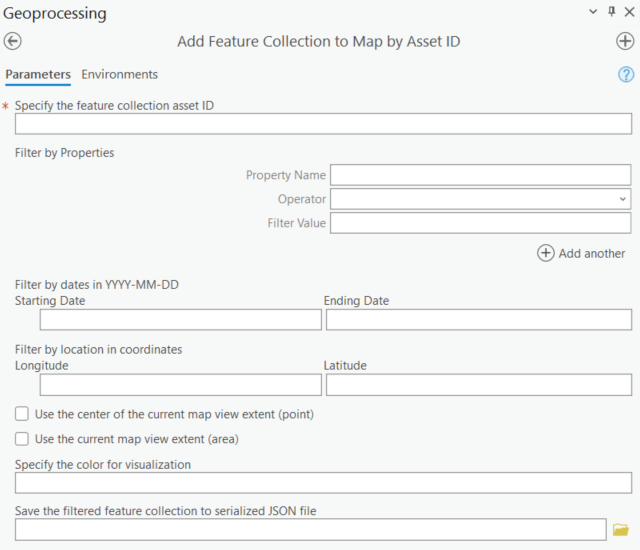
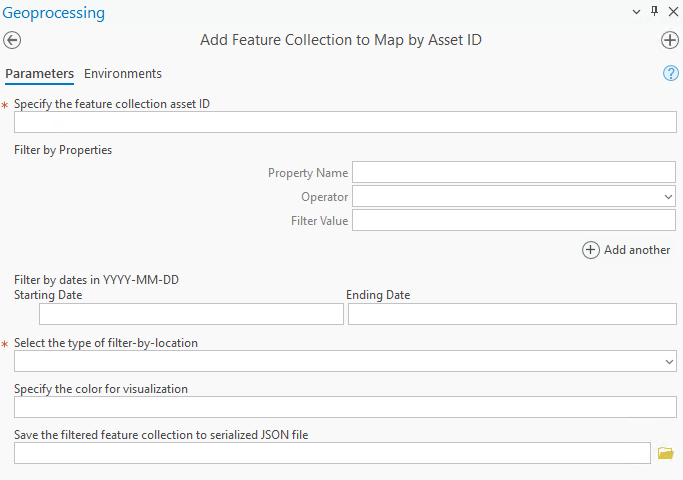
upload add feature collection to map video guide

diff --git a/docs/instruction.md b/docs/instruction.md
@@ -100,6 +100,10 @@ The project ID and workload tag are optional inputs here. If the user inputs the
 
 Please note that if you have installed Google Cloud SDK shell and set up the application default credentials, you don't need to run this script. The Earth Engine has already been authenticated automatically.
 
+#### Parameters
+ 1. Google Cloud project ID (Optional)
+ 2. Wrokload tag (Optional)
+
 Here is the video guide for the Earth Engine authentication:
 
 <div align="center">
@@ -108,9 +112,7 @@ Here is the video guide for the Earth Engine authentication:
   </a>
 </div>
 
-#### Parameters
- 1. Google Cloud project ID (Optional)
- 2. Wrokload tag (Optional)
+
 
 
 ### Check or Change Project ID 
@@ -128,7 +130,7 @@ Please note that if you have installed Google Cloud SDK shell, you can also swit
  4. New workload tag (Optional)  
 
 
-Here is the video guide for the project ID and workload tag switching:
+Here is the video guide for checking or changing project ID and workload tag:
 
 <div align="center">
   <a href="https://www.youtube.com/watch?v=eWkmTi1Vdn4" target="_blank">
@@ -160,7 +162,7 @@ Here is the video guide for the Earth Engine initialization:
 
 This script adds the Earth Engine Feature Collection dataset to ArcPro as a base map by its asset ID and customizes the visualization parameters. **To avoid slow response, the feature collection size is limited to 100,000 elements.**
 
-Please note that the dataset is added as a Tiled Service Layer (TSL), which cannot be edited directly. The user will need to download the dataset for analysis in ArcPro. To browse all datasets, please visit this [link](https://developers.google.com/earth-engine/datasets/catalog).
+Please note that the dataset is added as a Tiled Map Service Layer, which cannot be edited directly. The user will need to download the dataset for analysis in ArcPro. To browse all datasets, please visit this [link](https://developers.google.com/earth-engine/datasets/catalog).
 
 ![Alt Text](images/AddFC2MapbyID.png)
 
@@ -168,12 +170,17 @@ Please note that the dataset is added as a Tiled Service Layer (TSL), which cann
  1. Asset ID
  2. Filter by dataset properties
  3. Filter by dates
- 4. Filter by point gemoetry in lat/lon coordinates
- 5. Filter by the centroid of the current map view
- 6. Filter by the extent of the current map view 
- 7. Color for visualization
- 8. Save the filtered dataset to serialized JSON file
+ 4. Choose filter-by-location type: point or area 
+ 5. Color for visualization
+ 6. Save the filtered dataset to serialized JSON file
 
+Here is the video guide for adding feature collection to map by asset ID:
+
+<div align="center">
+  <a href="https://www.youtube.com/watch?v=p7xACz0OxMA" target="_blank">
+    <img src="https://img.youtube.com/vi/p7xACz0OxMA/0.jpg" alt="Add Feature Collection to Map by Asset ID" width="640" height="360" border="10" />
+  </a>
+</div>
 
 ### Add Feature Collection to Map by Serialized Object 
 
@@ -183,11 +190,21 @@ This script adds the Earth Engine Feature Collection dataset to ArcPro as a base
 
 ![Alt Text](images/AddFC2MapbyJSON.png)
 
-Please note that the dataset is added as a Tiled Service Layer (TSL), which cannot be edited. The user will need to download the dataset for analysis in ArcPro. To browse all datasets, please visit this [link](https://developers.google.com/earth-engine/datasets/catalog).
+Please note that the dataset is added as a Tiled Map Service Layer, which cannot be edited. The user will need to download the dataset for analysis in ArcPro. To browse all datasets, please visit this [link](https://developers.google.com/earth-engine/datasets/catalog).
 
 #### Parameters
 1. Serialized JSON file
 2. Color for visualization
+
+Here is the video guide for adding feature collection to map by serialized object:
+
+<div align="center">
+  <a href="https://www.youtube.com/watch?v=sfgP5TzVqfo" target="_blank">
+    <img src="https://img.youtube.com/vi/sfgP5TzVqfo/0.jpg" alt="Add Feature Collection to Map by Serialized Object" width="640" height="360" border="10" />
+  </a>
+</div>
+
+
 
 ### Add Image to Map by Asset ID
 
